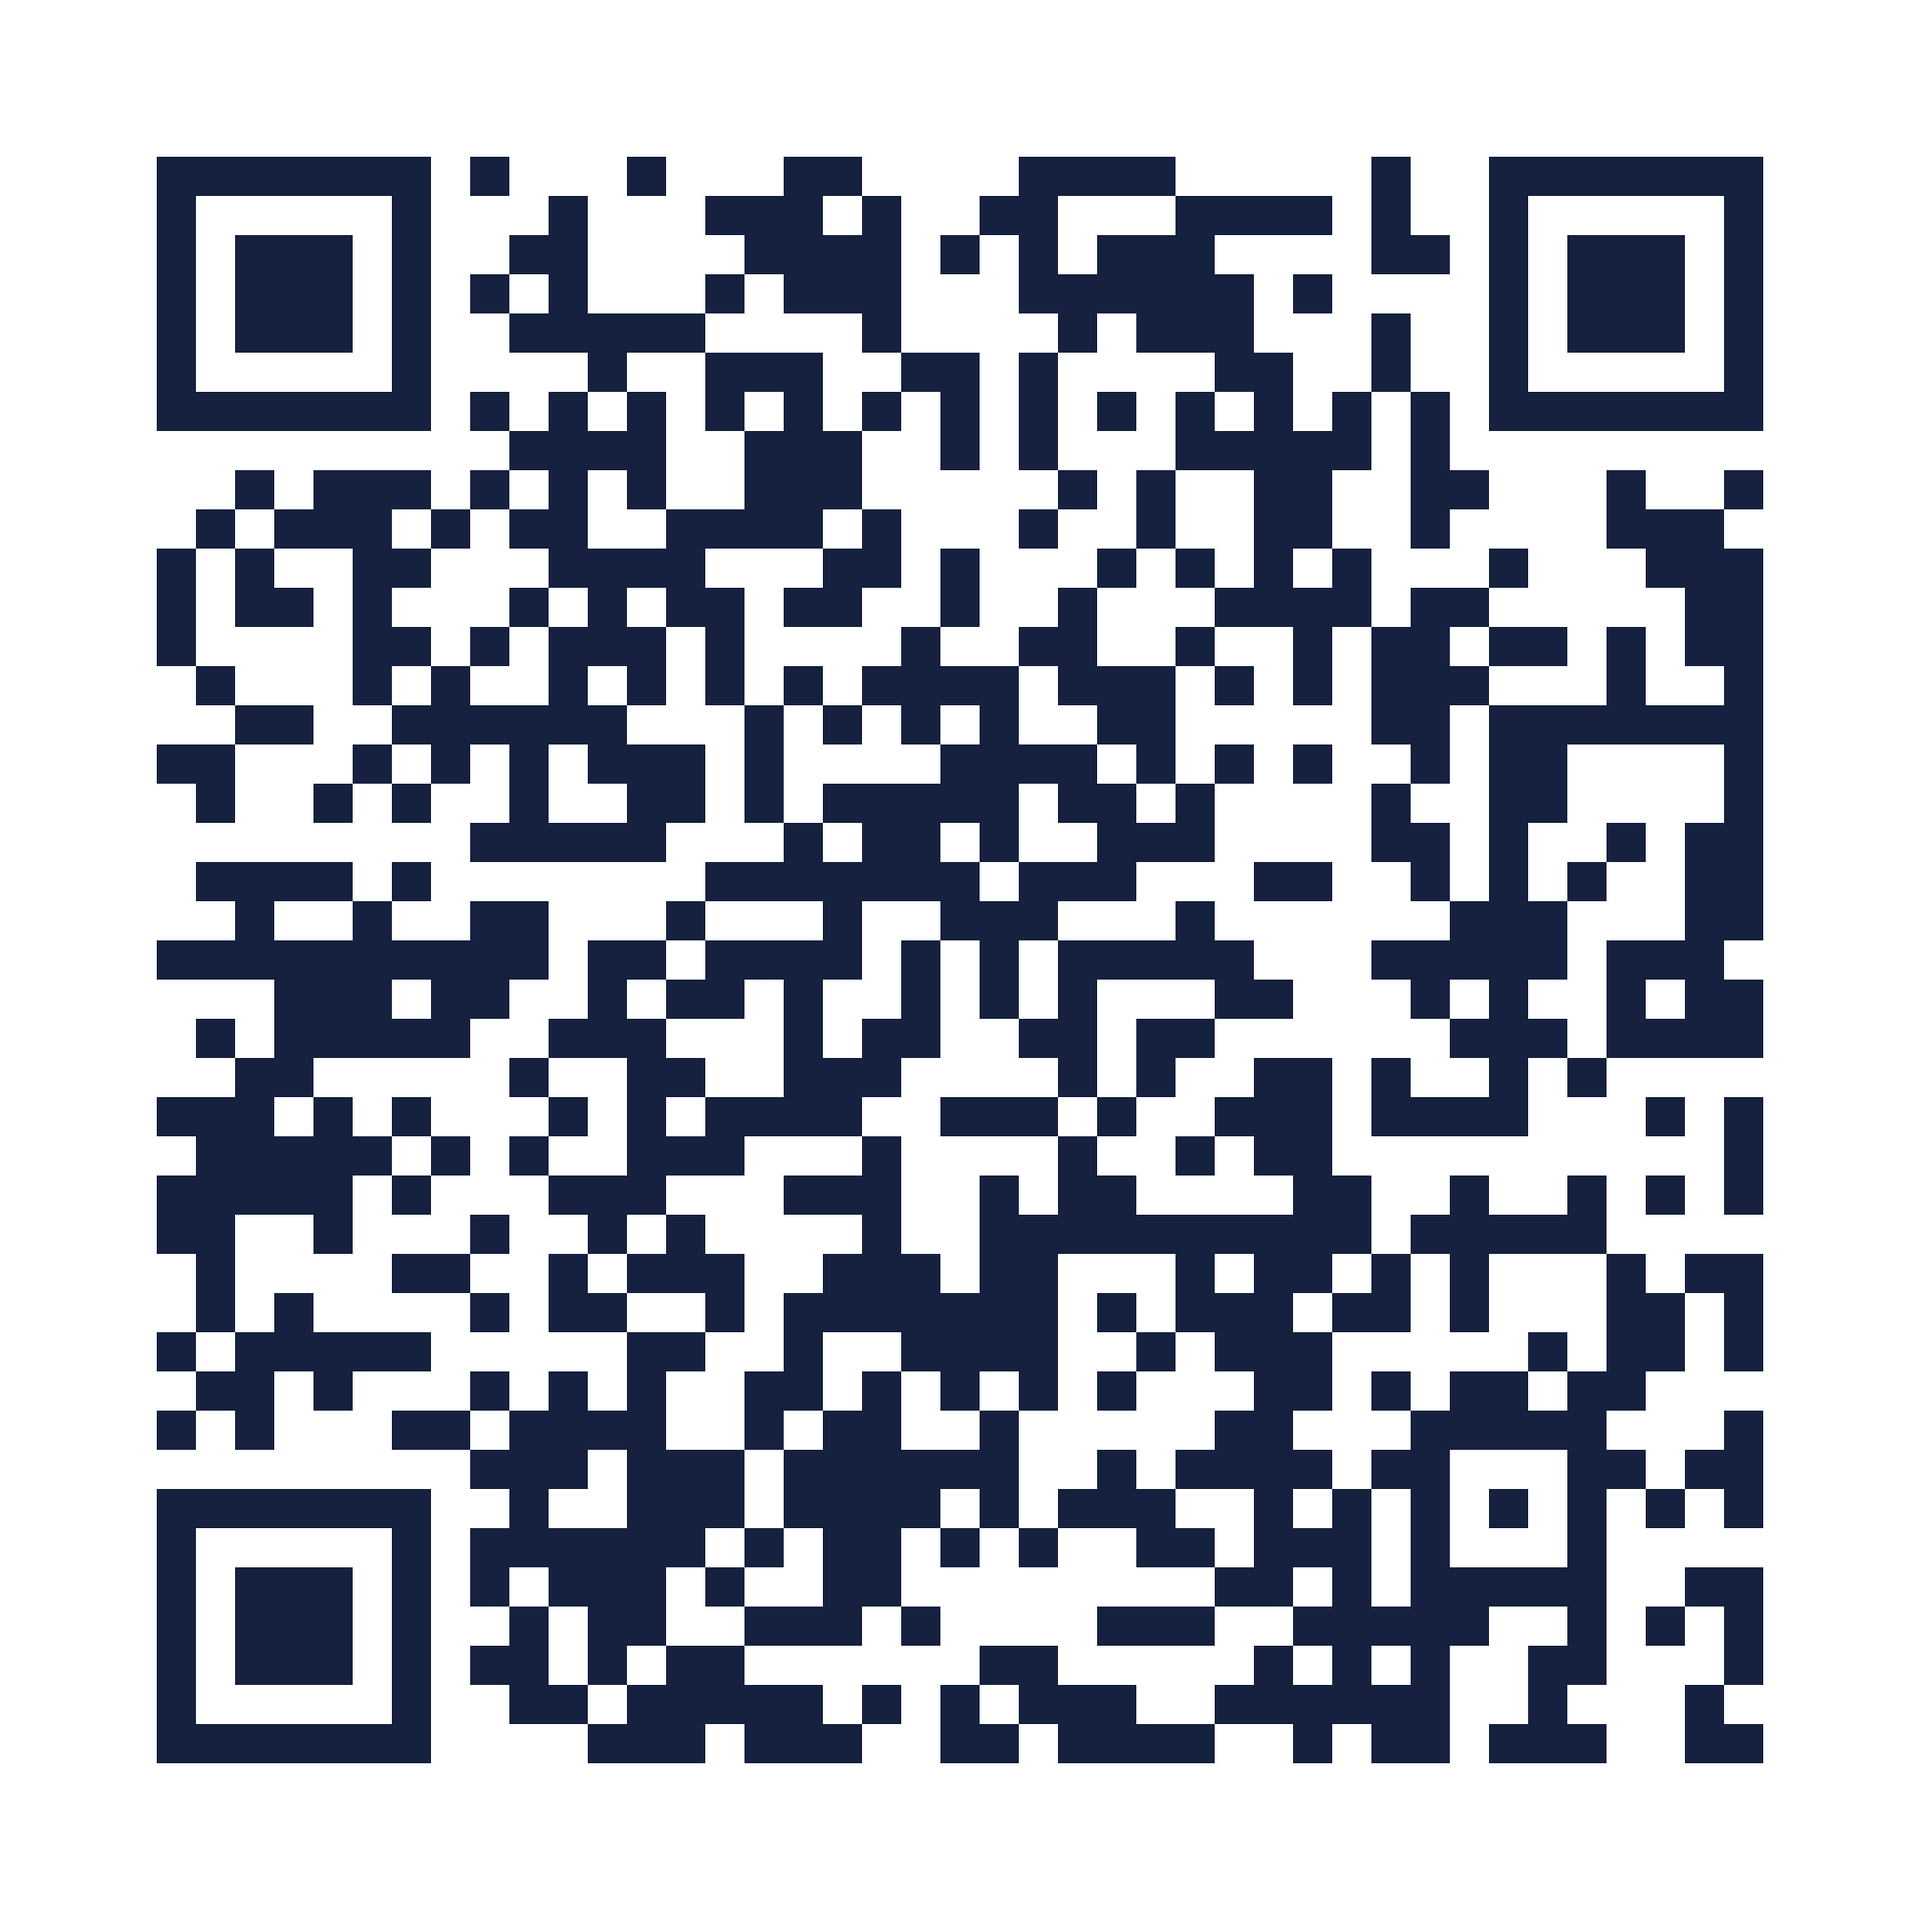
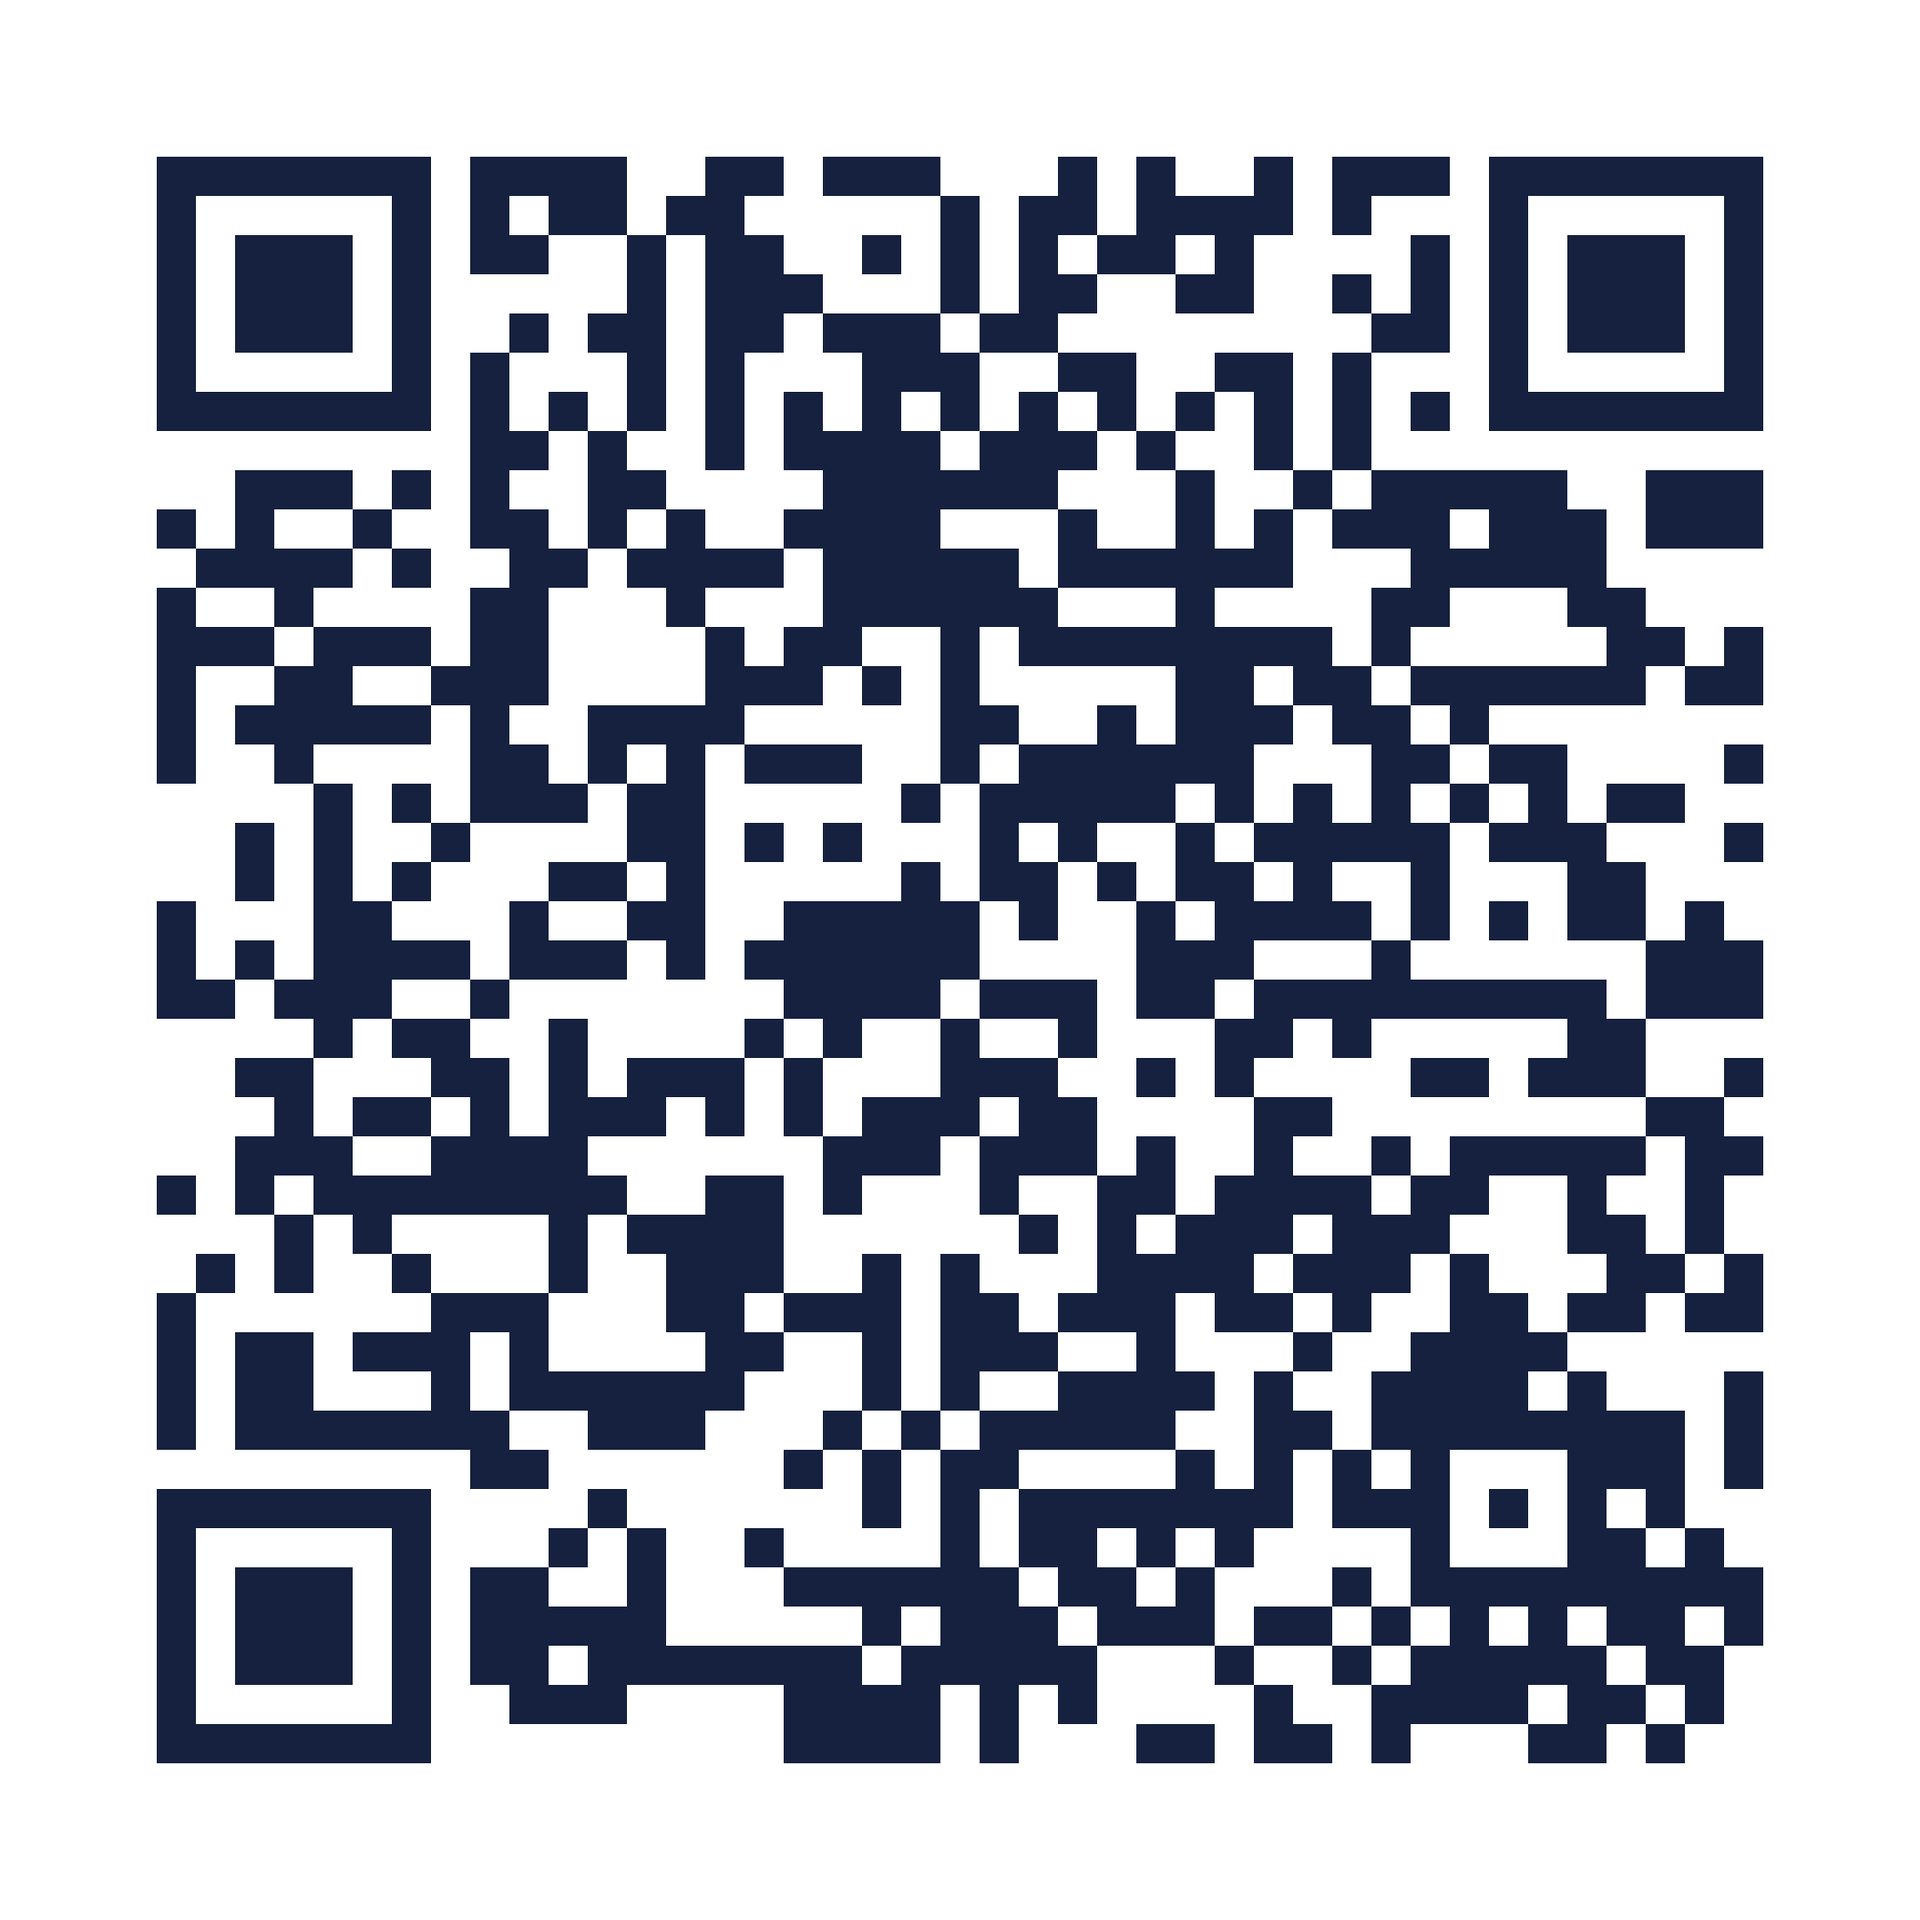
Point QR codes at the live GitHub Pages URL

Changed region(s): [[0.0622, 0.0622, 0.9337, 0.9337]]

diff --git a/BUILD_LOG.md b/BUILD_LOG.md
@@ -12,4 +12,9 @@
 4. Installed `qrcode[pil]` (github.com/lincolnloop/python-qrcode) into `.venv`.
 5. Generated QR v6, ECC level H, in 3 formats via `qr/make_qr.py`.
 
-**Open item:** artifact must be shared publicly by the user before the QR is usable by others.
+6. Artifact URL required a Claude login — scanners landed on the Claude homepage. Replaced with
+   public static hosting: wrapped index.html as a standalone document (doctype/head/body, viewport,
+   OG tags), pushed to github.com/piyushxt43/ganpati-digital-india, enabled GitHub Pages.
+7. Regenerated all three QR files against https://piyushxt43.github.io/ganpati-digital-india/ — verified live (page 200, image 200).
+
+**Status:** done. QR scans to a public page, no login.

diff --git a/README.md b/README.md
@@ -1,9 +1,9 @@
 # Ganpati Bappa — Digital India QR
 
-**Live page:** https://claude.ai/artifact/Ua3rPhfWRJZtNNJ5U6ANop
+**Live page:** https://piyushxt43.github.io/ganpati-digital-india/
+**Repo:** https://github.com/piyushxt43/ganpati-digital-india
 
-⚠ The page is **private by default**. Open it, use the page's **Share** menu to make it public,
-then the QR works for anyone. The URL does not change when you share, so the QR stays valid.
+Public static page on GitHub Pages — opens for anyone, no login.
 
 ## Files
 - `index.html` — the landing page source
